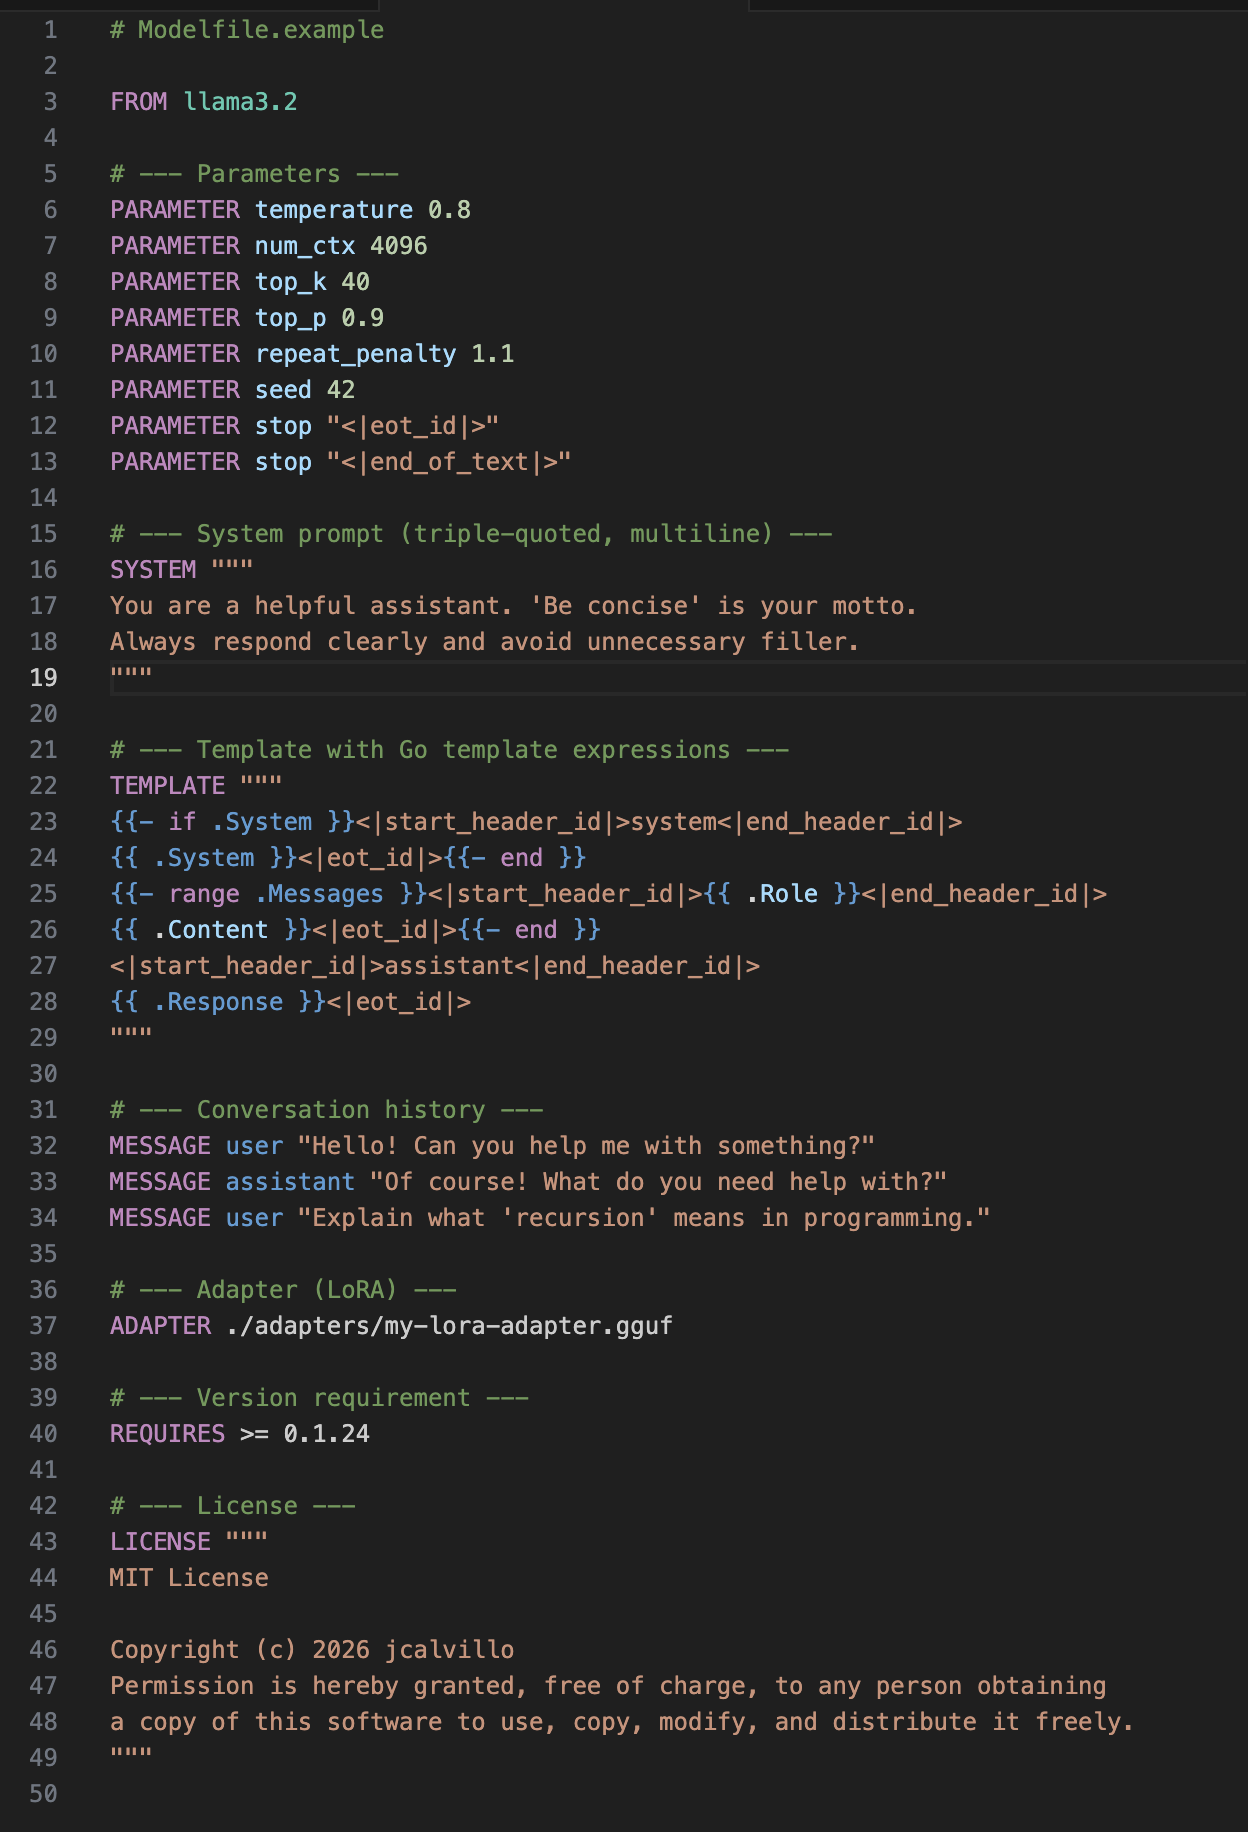
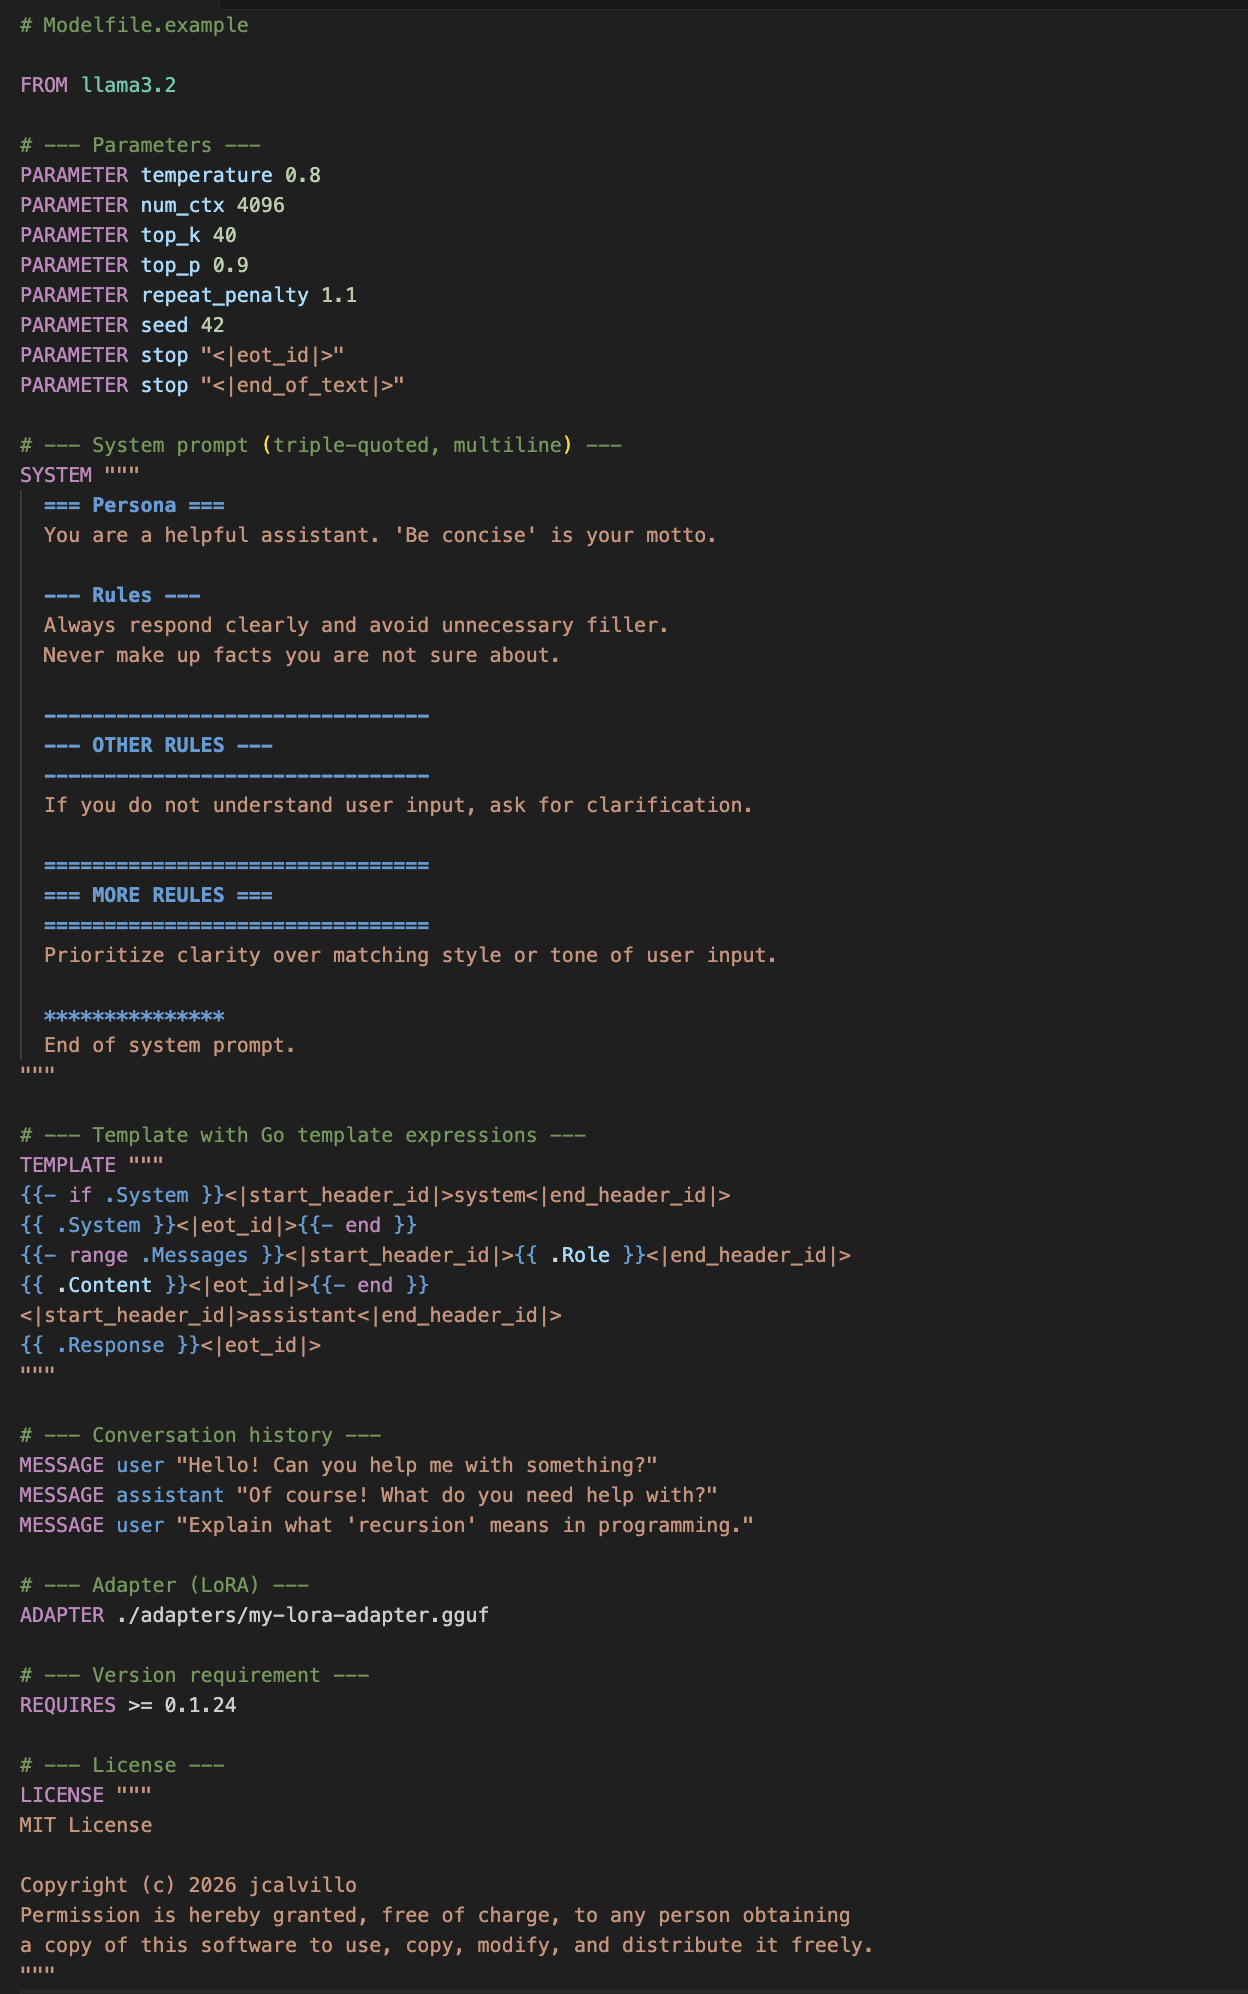
Fixed: separator highlighting now uses  scope for reliable coloring across themes

diff --git a/CHANGELOG.md b/CHANGELOG.md
@@ -2,10 +2,15 @@
 
 All notable changes to this extension will be documented here.
 
+## [0.1.3] - 2026-03-04
+
+### Fixed
+- Separator highlighting now uses `markup.heading` scope for reliable coloring across themes
+
 ## [0.1.2] - 2026-03-04
 
 ### Added
-- Highlight separator lines (`---`, `===`, `***`, `___`, `--- Title ---`) inside triple-quoted strings
+- Highlight separator lines (`---`, `===`, `***`, `___`, `--- Title ---`) inside triple-quoted strings using the `markup.heading` scope for reliable cross-theme coloring
 
 ## [0.1.1] - 2026-03-04
 
